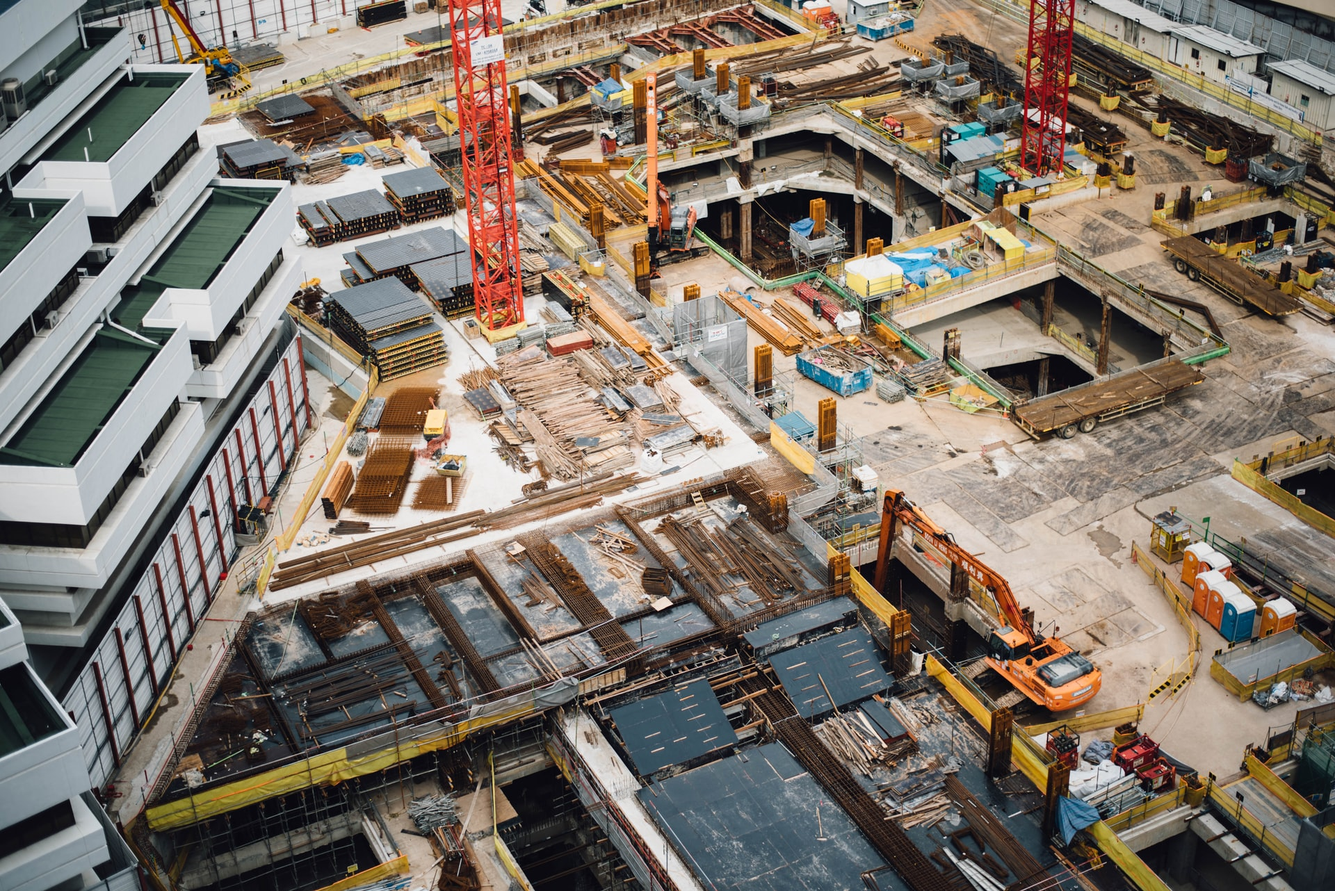
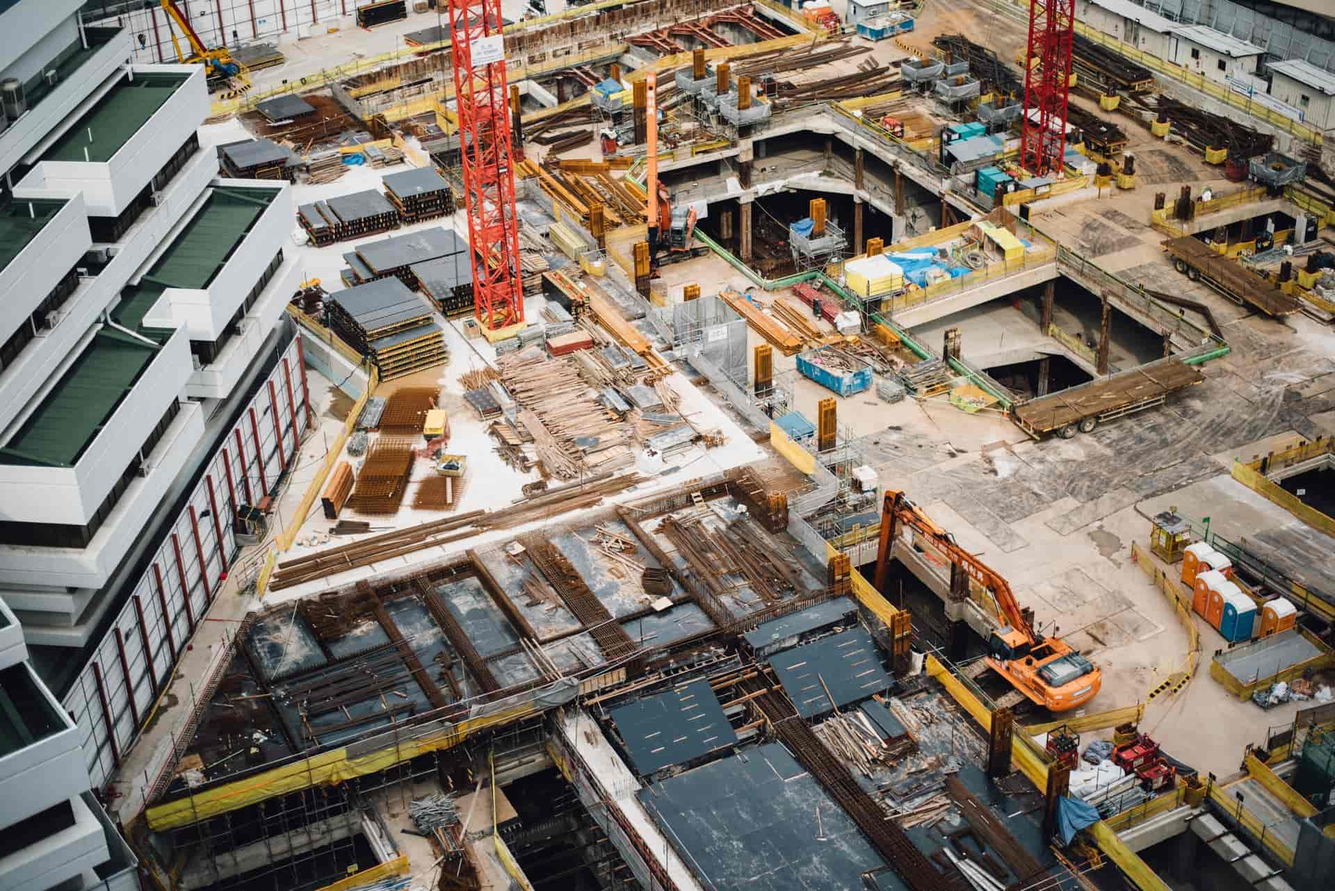
Optimise images

diff --git a/index.html b/index.html
@@ -6,13 +6,9 @@
     <meta http-equiv="X-UA-Compatible" content="IE=edge">
     <meta name="viewport" content="width=device-width, initial-scale=1.0">
     <!-- --------- FAVICON --------->
-    <!-- ?v=1 refreshes the cache to make it work on chrome -->
+    <!-- ?v=1 refreshes the cache to make the favicon work on chrome -->
     <link rel="shortcut icon" type="image/png" href="images/favicon.png?v=1">
     <link rel="icon" type="image/png" href="images/favicon.png?v=1">
-    <!-- --------- JQUERY --------->
-    <script src="https://code.jquery.com/jquery-3.5.1.slim.min.js"
-        integrity="sha384-DfXdz2htPH0lsSSs5nCTpuj/zy4C+OGpamoFVy38MVBnE+IbbVYUew+OrCXaRkfj" crossorigin="anonymous">
-    </script>
 
     <!-- --------- BOOTSTRAP --------->
     <link rel="stylesheet" href="https://cdn.jsdelivr.net/npm/bootstrap@4.6.0/dist/css/bootstrap.min.css"
@@ -25,7 +21,7 @@
         rel="stylesheet">
 
     <!-- --------- FONT AWESOME --------->
-    <script src="https://kit.fontawesome.com/3c0c213cb2.js" crossorigin="anonymous"></script>
+    <script defer src="https://kit.fontawesome.com/3c0c213cb2.js" crossorigin="anonymous"></script>
 
     <!-- --------- OTHER STYLESHEETS --------->
     <link href="https://vjs.zencdn.net/7.10.2/video-js.css" rel="stylesheet" />

diff --git a/js/script.js b/js/script.js
@@ -201,7 +201,7 @@ funFactObs.observe(funFacts);
  * window.onload
  */
 
-window.addEventListener('load', () => {
+window.addEventListener('load', () => { 
   // hide-preloader
   document.querySelector('.preloader').style.opacity = '0';
   document.querySelector('.preloader').style.visibility = 'hidden';
